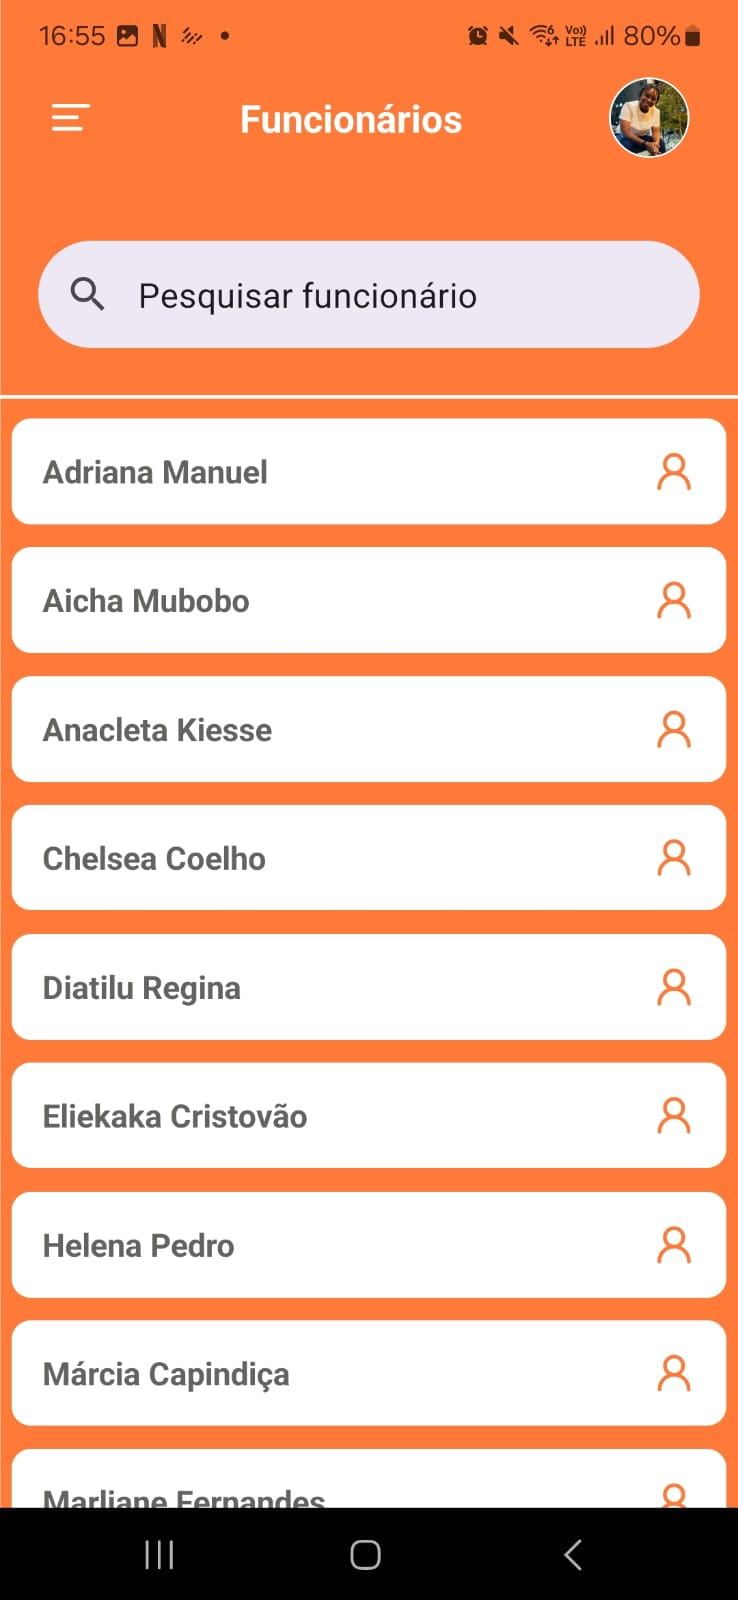
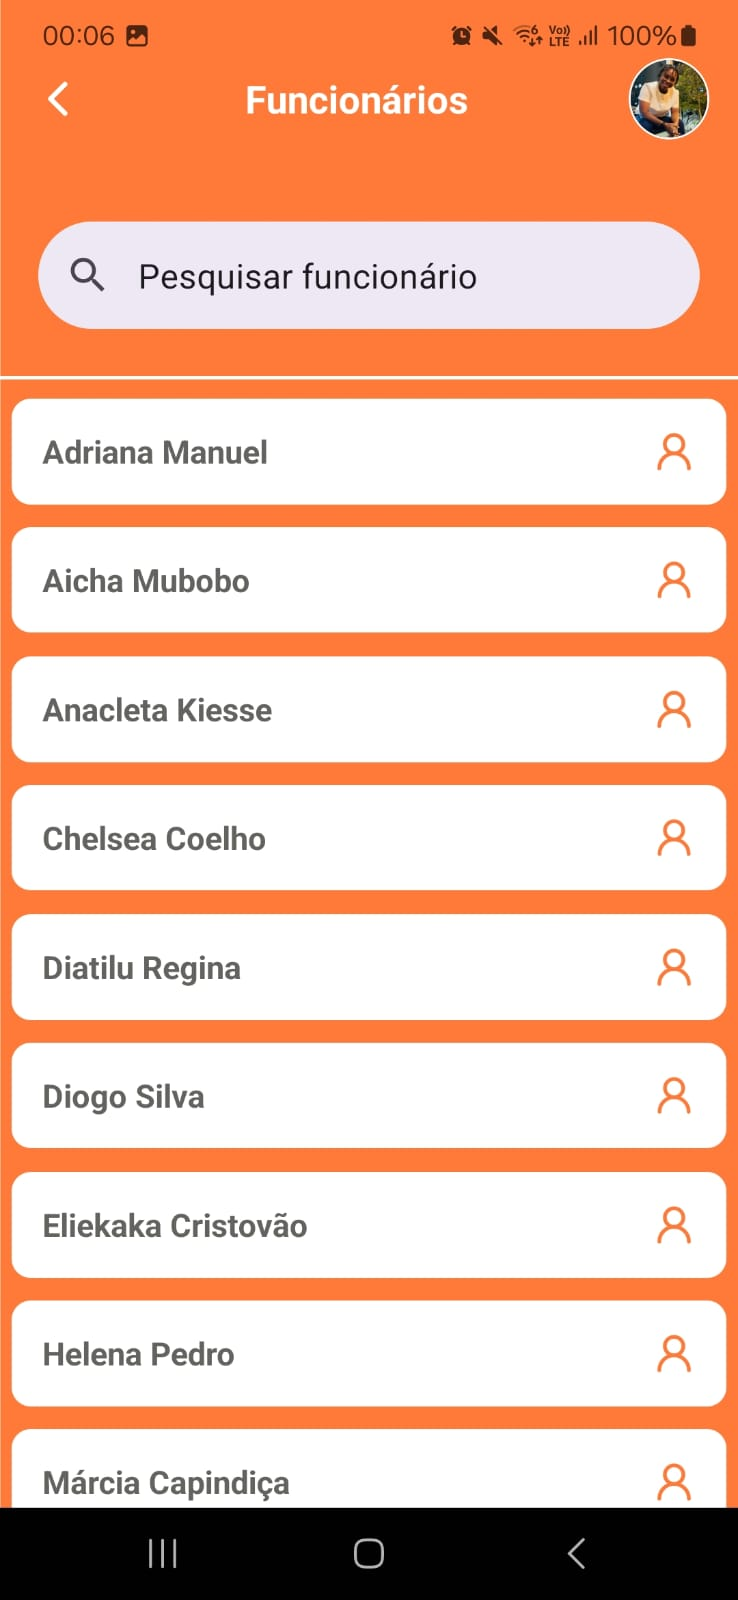
update

diff --git a/src/screens/Funcionarios.js b/src/screens/Funcionarios.js
@@ -195,7 +195,7 @@ const estilos = StyleSheet.create({
     width: "100%",
     backgroundColor: "#ff7938",
     paddingBottom: "0%",
-    marginBottom: "6%",
+    marginBottom: "9%",
     marginTop: "4%",
   },
   cabecalho: {
@@ -223,24 +223,23 @@ const estilos = StyleSheet.create({
   pesquisar: {
     padding: 20,
   },
-  linhaHorizontal: {
-    height: 2,
-    backgroundColor: "white",
-    marginVertical: 4,
-  },
+
   scrollContainer: {
-    backgroundColor: "#f8f8f8",
+    backgroundColor: "#FFFF",
   },
   viewFuncionarios: {
-    backgroundColor: "#ff7938",
+    backgroundColor: "#FFFF",
+    marginTop: 20,
+    marginBottom: 10,
   },
   viewFuncionario: {
-    margin: 6,
-    backgroundColor: "#fff",
+    margin: 8,
+    backgroundColor: "#ededed",
     padding: 16,
     flexDirection: "row",
     justifyContent: "space-between",
     borderRadius: 10,
+    marginTop: 10,
   },
   textoFuncionario: {
     fontSize: 15,

diff --git a/README.md b/README.md
@@ -20,6 +20,7 @@ O aplicativo foi desenvolvido em React Native com funcionalidades de login, home
   <img src="assets/images/editarp.jpg" alt="Editar Perfil" style="width: 23%; height: auto;">
   <img src="assets/images/adicionar.jpg" alt="Editar Perfil" style="width: 23%; height: auto;">
   <img src="assets/images/funcionarios.jpg" alt="Editar Perfil" style="width: 23%; height: auto;">
+  <img src="assets/images/dados.jpg" alt="Editar Perfil" style="width: 23%; height: auto;">
 </div>
 
 ## Instalação
